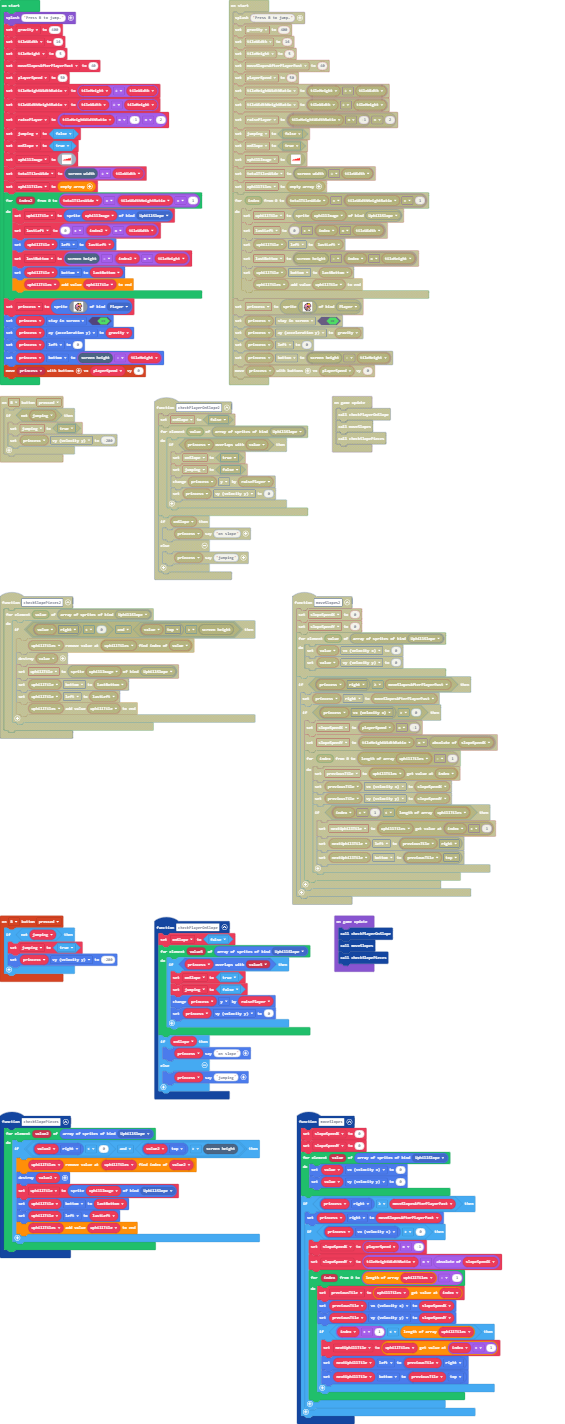
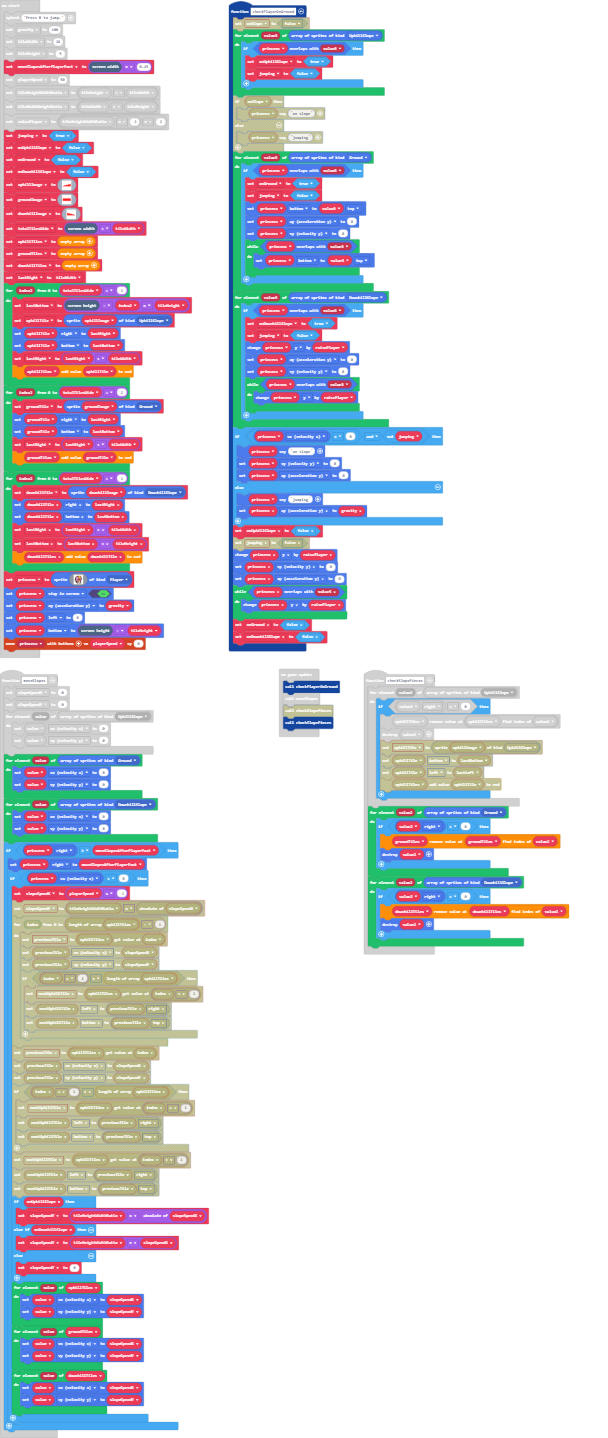
Overlap raises player in while loop

diff --git a/main.ts b/main.ts
@@ -1,5 +1,7 @@
 namespace SpriteKind {
     export const UphillSlope = SpriteKind.create()
+    export const Ground = SpriteKind.create()
+    export const DownhillSlope = SpriteKind.create()
 }
 controller.B.onEvent(ControllerButtonEvent.Pressed, function () {
     if (!(jumping)) {
@@ -14,95 +16,189 @@ function moveSlopes () {
         value.vx = 0
         value.vy = 0
     }
+    for (let value of sprites.allOfKind(SpriteKind.Ground)) {
+        value.vx = 0
+        value.vy = 0
+    }
+    for (let value of sprites.allOfKind(SpriteKind.DownhillSlope)) {
+        value.vx = 0
+        value.vy = 0
+    }
     if (princess.right >= moveSlopesAfterPlayerPast) {
         princess.right = moveSlopesAfterPlayerPast
         if (princess.vx > 0) {
             slopeSpeedX = playerSpeed * -1
-            slopeSpeedY = tileHeightWidthRatio * Math.abs(slopeSpeedX)
-            for (let index = 0; index <= uphillTiles.length - 1; index++) {
-                previousTile = uphillTiles[index]
-                previousTile.vx = slopeSpeedX
-                previousTile.vy = slopeSpeedY
-                if (index + 1 < uphillTiles.length) {
-                    nextUphillTile = uphillTiles[index + 1]
-                    nextUphillTile.left = previousTile.right
-                    nextUphillTile.bottom = previousTile.top
-                }
+            if (onUphillSlope) {
+                slopeSpeedY = tileHeightWidthRatio * Math.abs(slopeSpeedX)
+            } else if (onDownhillSlope) {
+                slopeSpeedY = tileHeightWidthRatio * slopeSpeedX
+            } else {
+                slopeSpeedY = 0
+            }
+            for (let value of uphillTiles) {
+                value.vx = slopeSpeedX
+                value.vy = slopeSpeedY
+            }
+            for (let value of groundTiles) {
+                value.vx = slopeSpeedX
+                value.vy = slopeSpeedY
+            }
+            for (let value of downhillTiles) {
+                value.vx = slopeSpeedX
+                value.vy = slopeSpeedY
             }
         }
     }
 }
 function checkSlopePieces () {
     for (let value2 of sprites.allOfKind(SpriteKind.UphillSlope)) {
-        if (value2.right < 0 && value2.top > scene.screenHeight()) {
+        if (value2.right < 0) {
             uphillTiles.removeAt(uphillTiles.indexOf(value2))
             value2.destroy()
-            uphillTile = sprites.create(uphillImage, SpriteKind.UphillSlope)
-            uphillTile.bottom = lastBottom
-            uphillTile.left = lastLeft
-            uphillTiles.push(uphillTile)
+        }
+    }
+    for (let value2 of sprites.allOfKind(SpriteKind.Ground)) {
+        if (value2.right < 0) {
+            groundTiles.removeAt(groundTiles.indexOf(value2))
+            value2.destroy()
+        }
+    }
+    for (let value2 of sprites.allOfKind(SpriteKind.DownhillSlope)) {
+        if (value2.right < 0) {
+            downhillTiles.removeAt(downhillTiles.indexOf(value2))
+            value2.destroy()
         }
     }
 }
-function checkPlayerOnSlope () {
-    onSlope = false
+function checkPlayerOnGround () {
+    onUphillSlope = false
+    onGround = false
+    onDownhillSlope = false
     for (let value3 of sprites.allOfKind(SpriteKind.UphillSlope)) {
         if (princess.overlapsWith(value3)) {
-            onSlope = true
+            onUphillSlope = true
             jumping = false
             princess.y += raisePlayer
             princess.vy = 0
+            princess.ay = 0
+            while (princess.overlapsWith(value3)) {
+                princess.y += raisePlayer
+            }
         }
     }
-    if (onSlope) {
+    for (let value3 of sprites.allOfKind(SpriteKind.Ground)) {
+        if (princess.overlapsWith(value3)) {
+            onGround = true
+            jumping = false
+            princess.bottom = value3.top
+            princess.ay = 0
+            princess.vy = 0
+            while (princess.overlapsWith(value3)) {
+                princess.bottom = value3.top
+            }
+        }
+    }
+    for (let value3 of sprites.allOfKind(SpriteKind.DownhillSlope)) {
+        if (princess.overlapsWith(value3)) {
+            onDownhillSlope = true
+            jumping = false
+            princess.y += raisePlayer
+            princess.ay = 0
+            princess.vy = 0
+            while (princess.overlapsWith(value3)) {
+                princess.y += raisePlayer
+            }
+        }
+    }
+    if (princess.vx == 0 && !(jumping)) {
         princess.say("on slope")
+        princess.vy = 0
+        princess.ay = 0
     } else {
         princess.say("jumping")
+        princess.ay = gravity
     }
 }
-let nextUphillTile: Sprite = null
-let previousTile: Sprite = null
 let slopeSpeedY = 0
 let slopeSpeedX = 0
 let princess: Sprite = null
-let lastBottom = 0
-let lastLeft = 0
+let downhillTile: Sprite = null
+let groundTile: Sprite = null
 let uphillTile: Sprite = null
+let lastBottom = 0
+let downhillTiles: Sprite[] = []
+let groundTiles: Sprite[] = []
 let uphillTiles: Sprite[] = []
-let uphillImage: Image = null
-let onSlope = false
+let onDownhillSlope = false
+let onGround = false
+let onUphillSlope = false
 let jumping = false
 let raisePlayer = 0
 let tileHeightWidthRatio = 0
 let playerSpeed = 0
 let moveSlopesAfterPlayerPast = 0
+let gravity = 0
 game.splash("Press B to jump.")
-let gravity = 400
+gravity = 400
 let tileWidth = 16
 let tileHeight = 5
-moveSlopesAfterPlayerPast = 40
+moveSlopesAfterPlayerPast = scene.screenWidth() * 0.45
 playerSpeed = 50
 tileHeightWidthRatio = tileHeight / tileWidth
 let tileWidthHeightRatio = tileWidth / tileHeight
 raisePlayer = tileHeightWidthRatio * -1 * 2
-jumping = false
-onSlope = true
-uphillImage = img`
+jumping = true
+onUphillSlope = false
+onGround = false
+onDownhillSlope = false
+let uphillImage = img`
     . . . . . . . . . . . . . . 2 2 
     . . . . . . . . . . 2 2 2 2 2 2 
     . . . . . . 2 2 2 2 2 2 2 2 2 2 
     . . 2 2 2 2 2 2 2 2 2 2 2 2 2 2 
     2 2 2 2 2 2 2 2 2 2 2 2 2 2 2 2 
     `
+let groundImage = img`
+    2 2 2 2 2 2 2 2 2 2 2 2 2 2 2 2 
+    2 2 2 2 2 2 2 2 2 2 2 2 2 2 2 2 
+    2 2 2 2 2 2 2 2 2 2 2 2 2 2 2 2 
+    2 2 2 2 2 2 2 2 2 2 2 2 2 2 2 2 
+    2 2 2 2 2 2 2 2 2 2 2 2 2 2 2 2 
+    `
+let downhillImage = img`
+    2 2 . . . . . . . . . . . . . . 
+    2 2 2 2 2 2 . . . . . . . . . . 
+    2 2 2 2 2 2 2 2 2 2 . . . . . . 
+    2 2 2 2 2 2 2 2 2 2 2 2 2 2 . . 
+    2 2 2 2 2 2 2 2 2 2 2 2 2 2 2 2 
+    `
 let totalTilesWide = scene.screenWidth() / tileWidth
 uphillTiles = []
-for (let index2 = 0; index2 <= totalTilesWide + (tileWidthHeightRatio + 1); index2++) {
-    uphillTile = sprites.create(uphillImage, SpriteKind.UphillSlope)
-    lastLeft = 0 + index2 * tileWidth
-    uphillTile.left = lastLeft
+groundTiles = []
+downhillTiles = []
+let lastRight = tileWidth
+for (let index2 = 0; index2 <= totalTilesWide / 1; index2++) {
     lastBottom = scene.screenHeight() - index2 * tileHeight
+    uphillTile = sprites.create(uphillImage, SpriteKind.UphillSlope)
+    uphillTile.right = lastRight
     uphillTile.bottom = lastBottom
+    lastRight = lastRight + tileWidth
     uphillTiles.push(uphillTile)
+}
+for (let index2 = 0; index2 <= totalTilesWide / 2; index2++) {
+    groundTile = sprites.create(groundImage, SpriteKind.Ground)
+    groundTile.right = lastRight
+    groundTile.bottom = lastBottom
+    lastRight = lastRight + tileWidth
+    groundTiles.push(groundTile)
+}
+for (let index2 = 0; index2 <= totalTilesWide / 1; index2++) {
+    downhillTile = sprites.create(downhillImage, SpriteKind.DownhillSlope)
+    downhillTile.right = lastRight
+    downhillTile.bottom = lastBottom
+    lastRight = lastRight + tileWidth
+    lastBottom = lastBottom + tileHeight
+    downhillTiles.push(downhillTile)
 }
 princess = sprites.create(img`
     . . . . . . . . . . . . . . . . 
@@ -128,7 +224,7 @@ princess.left = 0
 princess.bottom = scene.screenHeight() - tileHeight
 controller.moveSprite(princess, playerSpeed, 0)
 game.onUpdate(function () {
-    checkPlayerOnSlope()
+    checkPlayerOnGround()
     moveSlopes()
     checkSlopePieces()
 })
